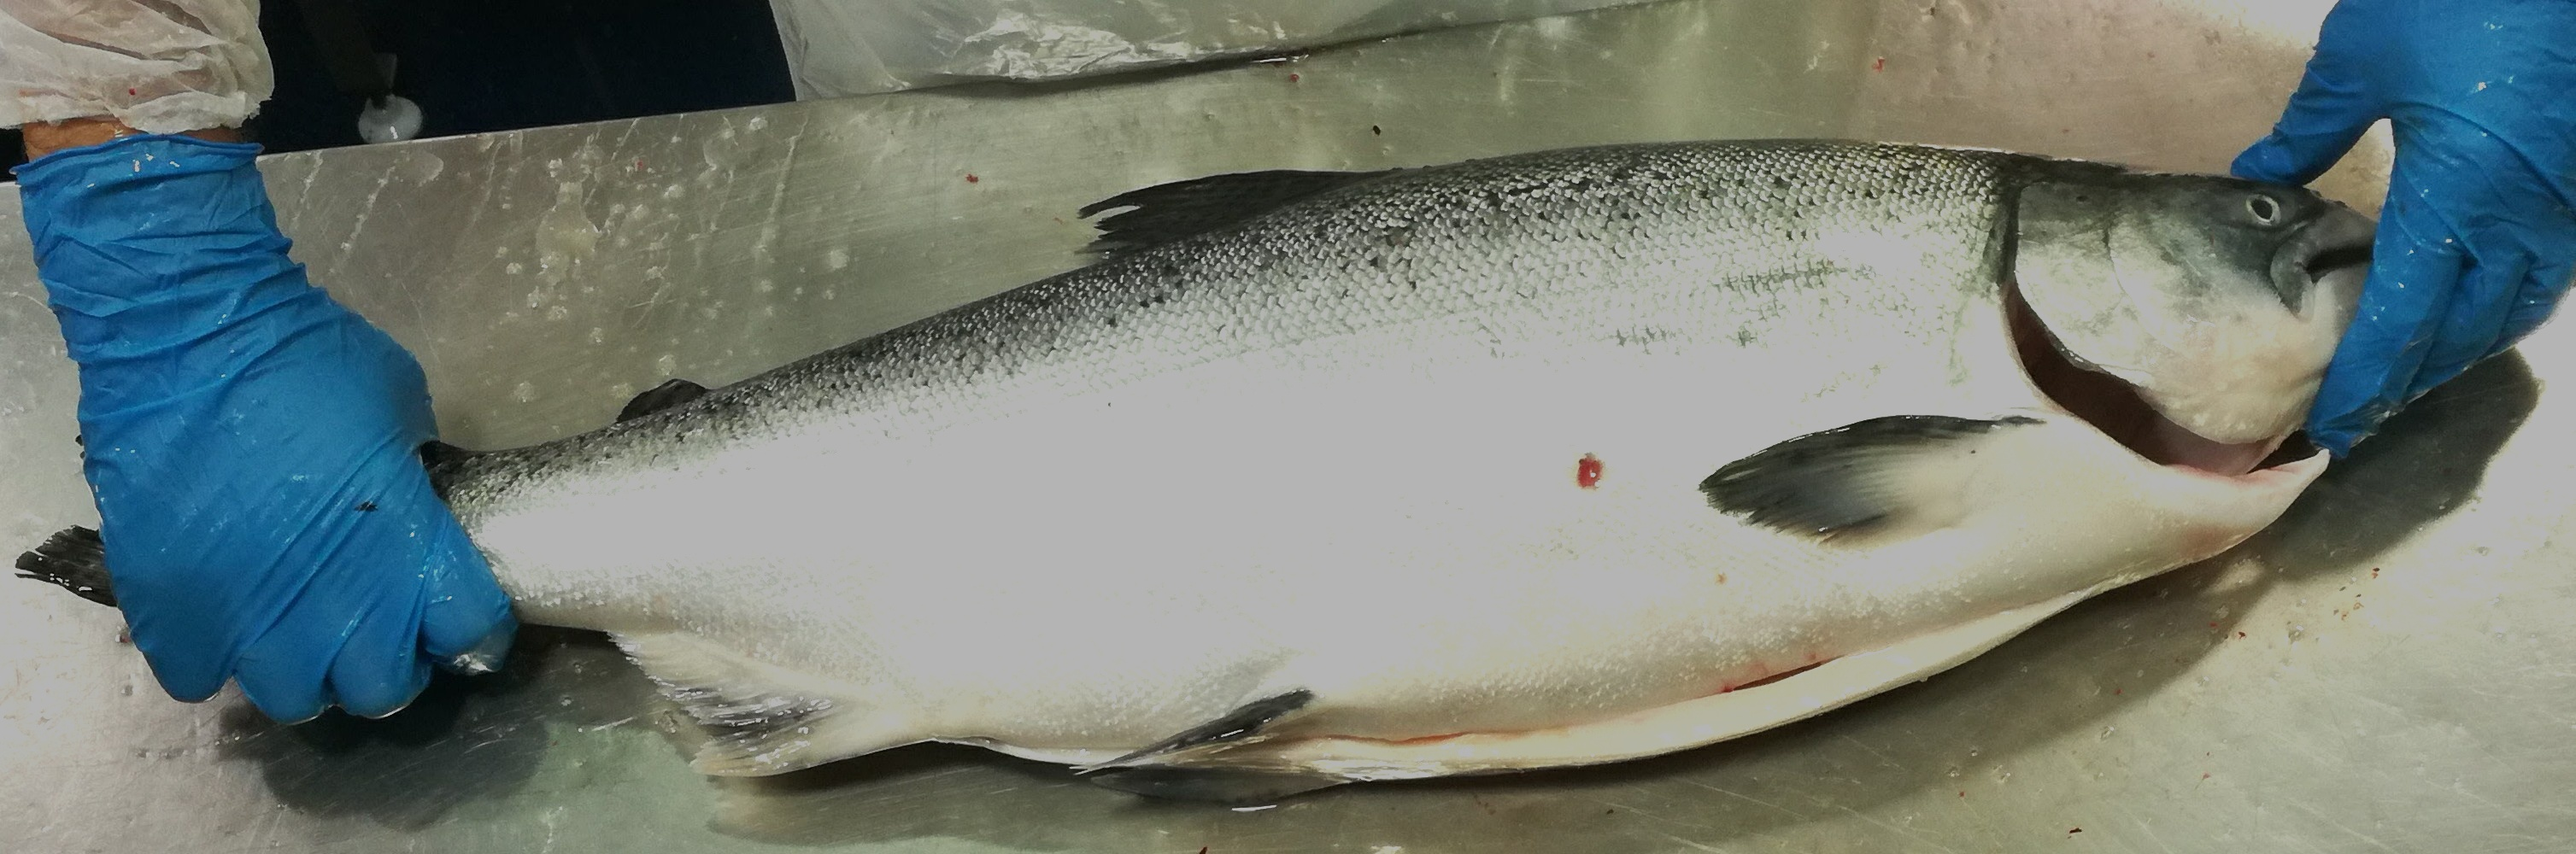
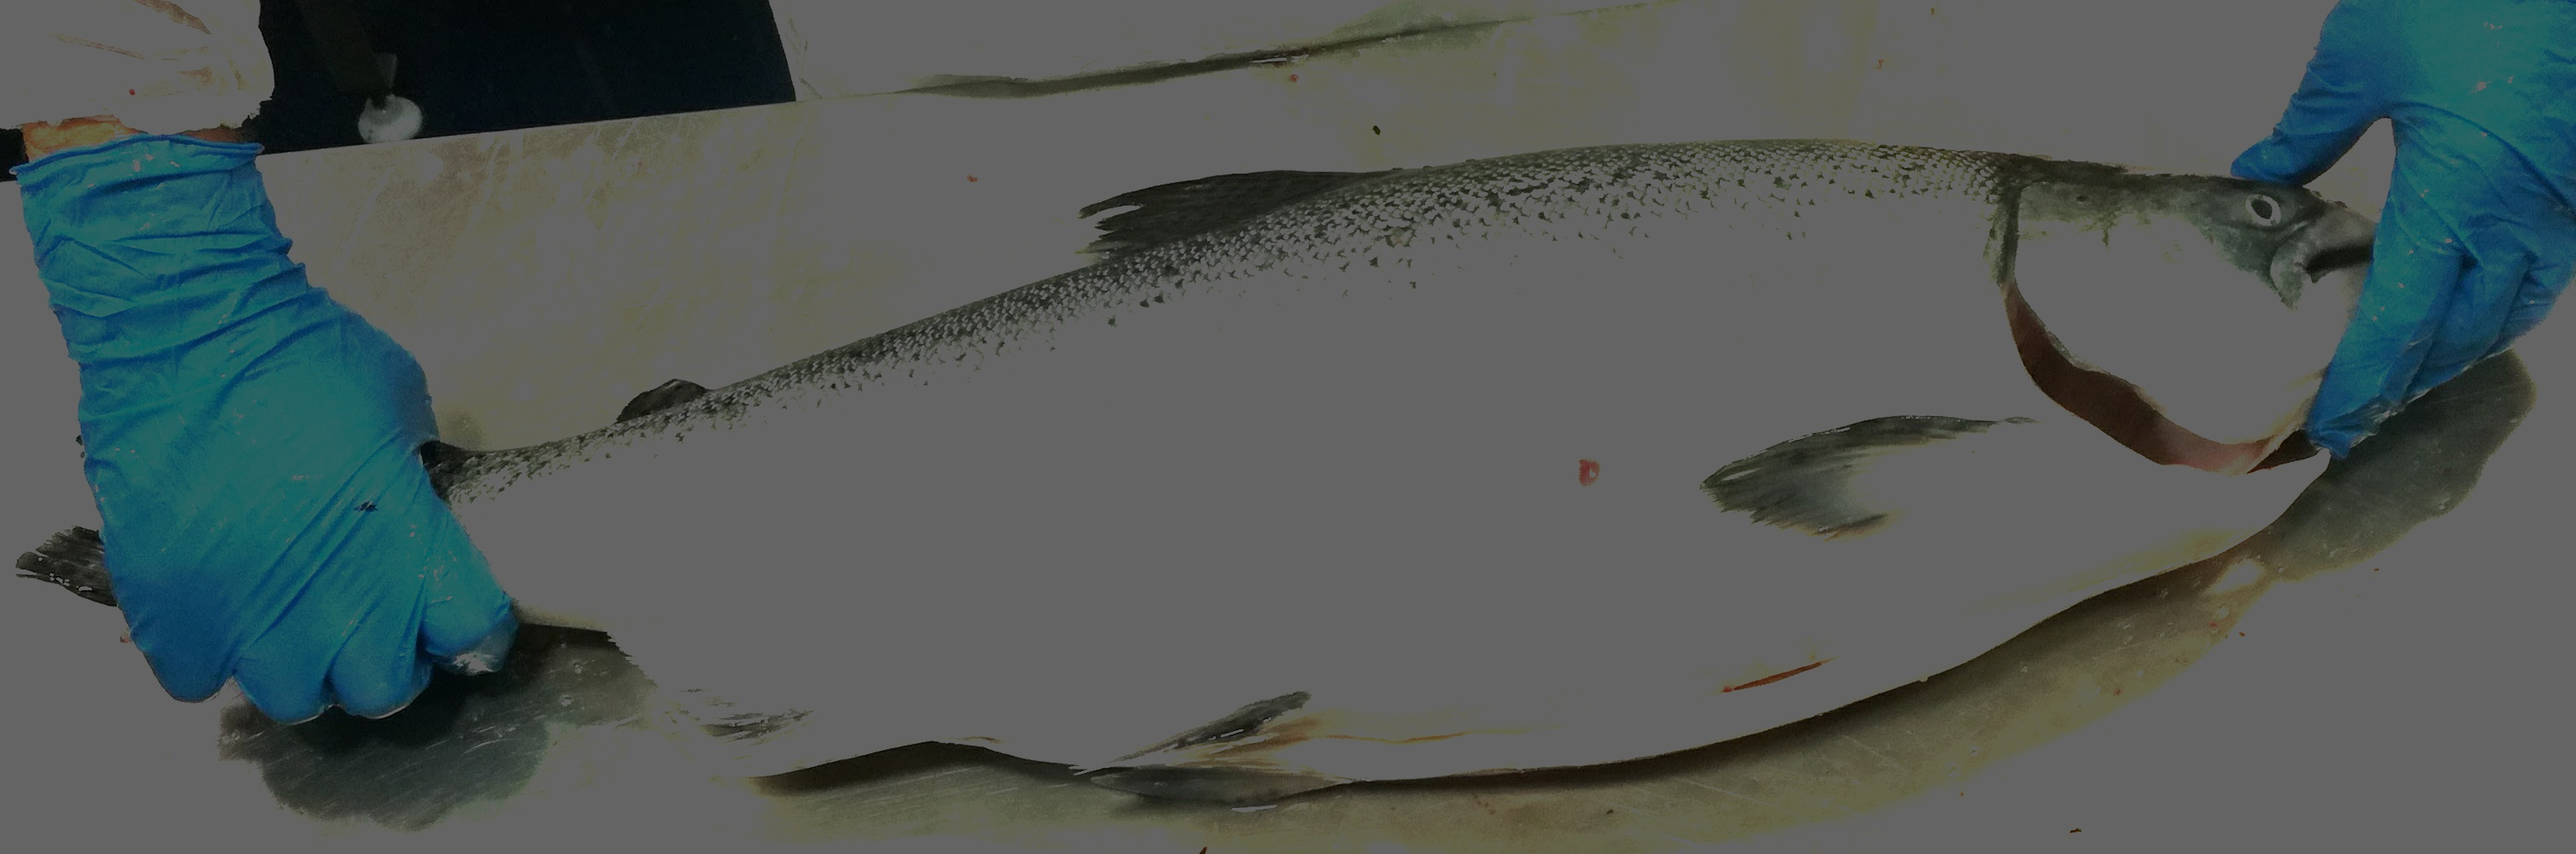
updated opencv from 2.5.4 to 3.4.3

diff --git a/src/main/java/org/roag/Threshold.java b/src/main/java/org/roag/Threshold.java
@@ -1,10 +1,8 @@
 package org.roag;
 
-import org.opencv.core.Core;
-import org.opencv.core.CvType;
 import org.opencv.core.Mat;
 
-import org.opencv.highgui.Highgui;
+import org.opencv.imgcodecs.Imgcodecs;
 import org.opencv.imgproc.Imgproc;
 
 import java.util.Date;
@@ -23,13 +21,14 @@ public class Threshold
         {
             long starttime=new Date().getTime();
             System.out.println("Start time "+0);
+            System.setProperty("java.library.path", "/opt/local/share/OpenCV/java");
             System.loadLibrary(org.opencv.core.Core.NATIVE_LIBRARY_NAME);
-            Mat source = Highgui.imread("salmon_spot.jpg", Highgui.CV_LOAD_IMAGE_COLOR);
+            Mat source = Imgcodecs.imread("salmon_spot.jpg", Imgcodecs.CV_LOAD_IMAGE_COLOR);
             Mat destination = new Mat(source.rows(), source.cols(), source.type());
 
             destination = source;
-            Imgproc.threshold(source, destination, 180, 255, Imgproc.THRESH_TRUNC);
-            Highgui.imwrite("salmon_threshold.jpg", destination);
+            Imgproc.threshold(source, destination, 100, 255, Imgproc.THRESH_TRUNC);
+            Imgcodecs.imwrite("salmon_threshold.jpg", destination);
 
             long end_time=new Date().getTime();
             System.out.println("End time "+(end_time-starttime));

diff --git a/src/main/java/org/roag/Main.java b/src/main/java/org/roag/Main.java
@@ -1,9 +1,16 @@
 package org.roag;
 
+import org.opencv.core.Core;
+import org.opencv.core.CvType;
+import org.opencv.core.Mat;
+
 public class Main {
 
     public static void main(String[] args) {
 	// write your code here
-        new ImageAnalyzer();
+//        new ImageAnalyzer();
+        System.loadLibrary(Core.NATIVE_LIBRARY_NAME);
+        Mat mat = Mat.eye(3, 3, CvType.CV_8UC1);
+        System.out.println("mat = " + mat.dump());
     }
 }

diff --git a/README.md b/README.md
@@ -1,1 +1,25 @@
-# opencv-java-sanples
+# opencv-java-samples
+
+## how to install opencv for MAC using macport
+
+    sudo port selfupdate
+    sudo port install opencv +java
+
+Check the installation
+    
+    port contents opencv | grep java
+    
+It should show 
+    
+    /opt/local/share/OpenCV/java/libopencv_java343.dylib
+    /opt/local/share/OpenCV/java/opencv-343.jar
+    
+## how to add opencv support for java application
+    
+- alternative 1: add libopencv_java343.dylib as Java extension in MAC
+ 
+        cp /opt/local/share/OpenCV/java/libopencv_java343.dylib /Library/Java/Extensions
+    
+- alternative 2: run application with java.library.path
+    
+        java -Djava.library.path=/opt/local/share/OpenCV/java
